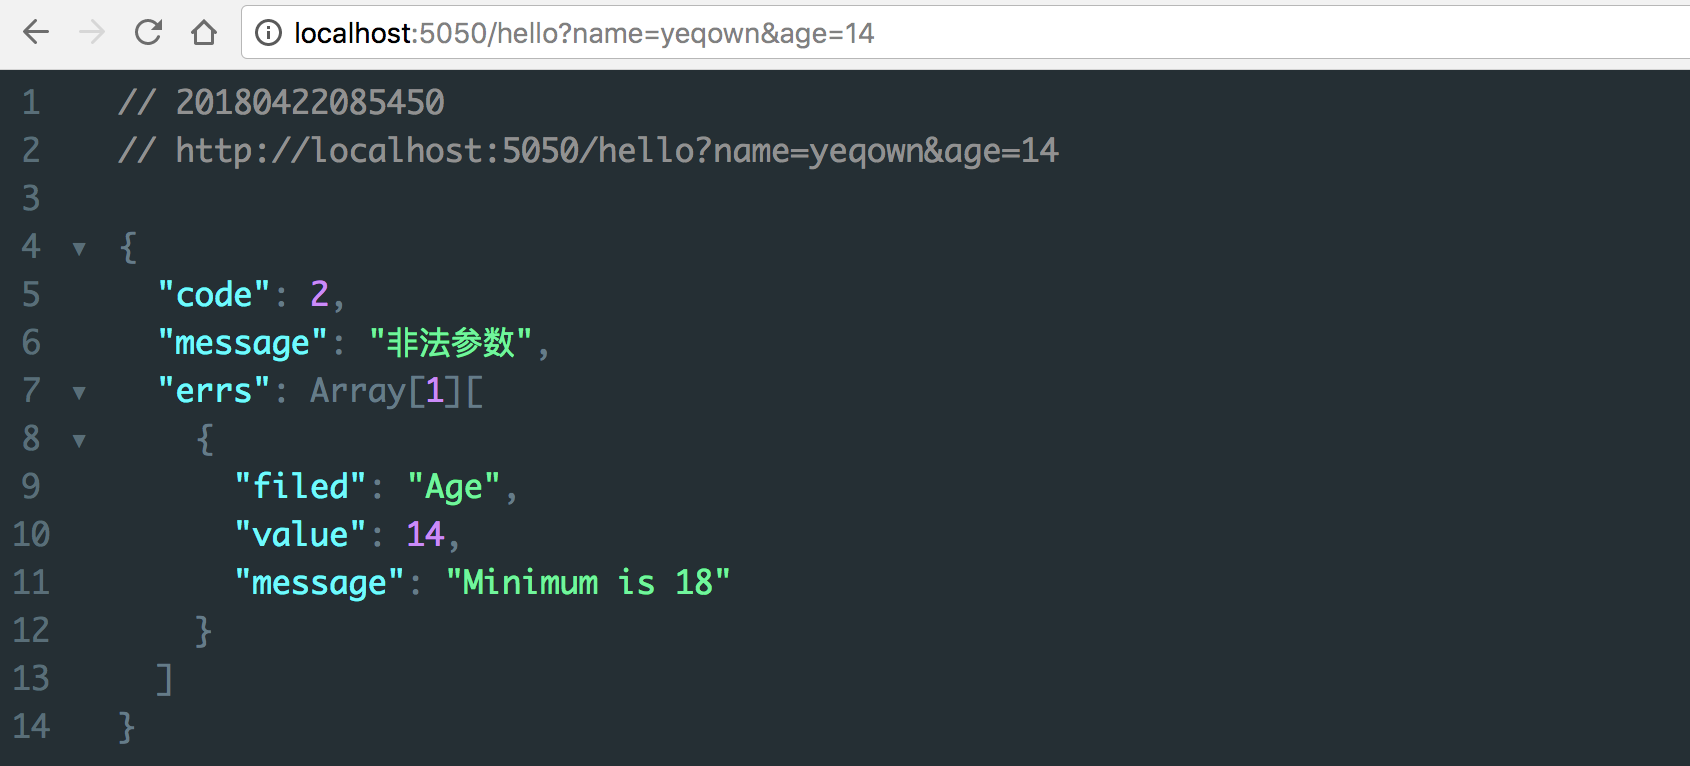
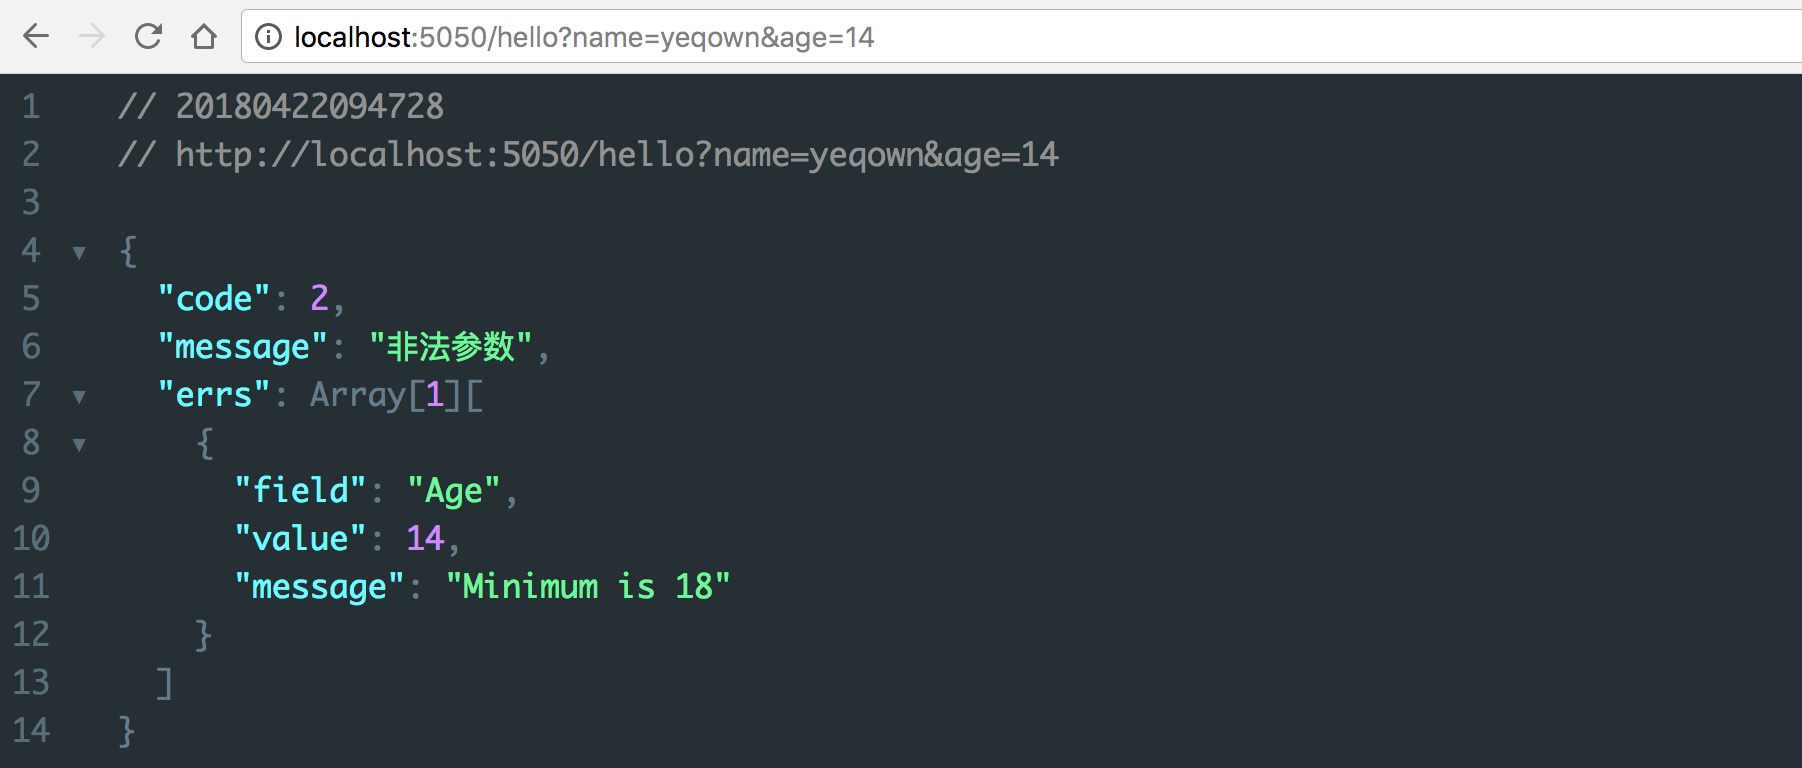
fix: wrong field name with

diff --git a/router/middleware/param.go b/router/middleware/param.go
@@ -12,7 +12,7 @@ import (
 )
 
 type ParamError struct {
-	Field   string      `json:"filed"`
+	Field   string      `json:"field"`
 	Value   interface{} `json:"value"`
 	Message string      `json:"message"`
 }
@@ -20,7 +20,7 @@ type ParamError struct {
 type ParamErrors []*ParamError
 
 func (pe *ParamError) String() string {
-	return Fstring("filed-[%s], invalid with value-[%s], tip: [%s]", pe.Field, pe.Value, pe.Message)
+	return Fstring("field-[%s], invalid with value-[%s], tip: [%s]", pe.Field, pe.Value, pe.Message)
 }
 
 func (pe *ParamError) Error() string {
